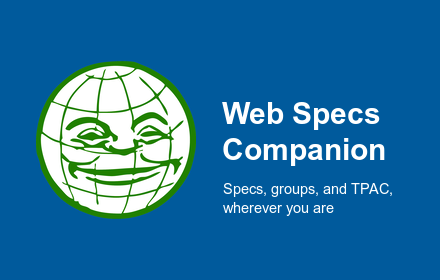
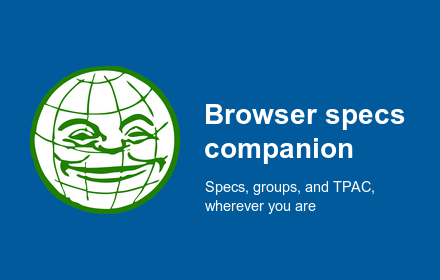
Branding: Rename the extension “Browser specs companion”
The extension now goes by “Browser specs companion” — in its own UI,
on its website and store listings, in its release titles, and as the
Mac app — to match the browser-specs.github.io site, which calls
itself “Browser specs”, and whose globe the extension’s icons already
use. Its short name, for the toolbar, is “Browser specs”.

What identifies the extension rather than naming it is unchanged: its
Firefox ID and Add-ons slug, its Mac bundle ID, the repo and npm names,
the release files’ names, and the data URLs installed copies fetch,
under sideshowbarker.net/web-specs-companion/. So each store gets the
name as an update to the same listing. And the site’s check for the
Chrome Web Store listing takes either name, since the store shows the
old one until it publishes a version with the new one.

Changed region(s): [[0.0591, 0.2, 0.9159, 0.8], [0.4432, 0.6286, 0.8864, 0.7714]]

diff --git a/site/index.html b/site/index.html
@@ -3,9 +3,9 @@
 <head>
   <meta charset="utf-8">
   <meta name="viewport" content="width=device-width, initial-scale=1">
-  <title>Web Specs Companion</title>
+  <title>Browser specs companion</title>
   <meta name="description" content="A browser extension that shows all that’s known about the web spec you’re reading.">
-  <meta property="og:title" content="Web Specs Companion">
+  <meta property="og:title" content="Browser specs companion">
   <meta property="og:description" content="A browser extension that shows all that’s known about the web spec you’re reading.">
   <meta property="og:url" content="https://sideshowbarker.net/web-specs-companion/">
   <meta property="og:image" content="https://sideshowbarker.net/web-specs-companion/screenshots/card-editors-draft.png">
@@ -18,10 +18,10 @@
   <header class="hero">
     <div class="wrap">
       <div>
-        <p class="brand"><img src="icon.png" width="128" height="128" alt=""> Web Specs Companion</p>
+        <p class="brand"><img src="icon.png" width="128" height="128" alt=""> Browser specs companion</p>
         <h1>A browser extension that shows all that’s known about the web spec you’re reading</h1>
         <p class="lede">On a spec from W3C, WHATWG, or another standards body, it shows which browsers implement it, its MDN articles, its Can I Use features, and its test results on wpt.fyi — along with its type, related drafts, repository and issues, and the group responsible for it. A W3C spec also gets its TR versions, and its group’s chairs, team contacts, and charter end date.</p>
-        <p class="disclaimer">Web Specs Companion isn’t formally affiliated with or endorsed by W3C, WHATWG, or any other standards body.</p>
+        <p class="disclaimer">Browser specs companion isn’t formally affiliated with or endorsed by W3C, WHATWG, or any other standards body.</p>
         <p class="cta"><a class="button" id="install-button" href="#install">Install it</a> <span>Free and open source, and it collects nothing about you.</span></p>
       </div>
       <a href="screenshots/card-editors-draft.png"><img class="shot" src="screenshots/card-editors-draft.png" width="1280" height="800" alt="The card for an editor’s draft: its maturity, its links, its group and chairs, and its platform footprint"></a>
@@ -94,7 +94,7 @@
       <div class="wrap">
         <h2 id="install-heading">Install it</h2>
         <p>The latest release is version {{version}}. It needs Chrome or Edge 148 or later, Firefox 128 or later, or Safari 26 or later, on a desktop computer.</p>
-        <p class="mobile-note" id="mobile-note" hidden>Web Specs Companion runs in desktop browsers, so open this page on your computer to install it.</p>
+        <p class="mobile-note" id="mobile-note" hidden>Browser specs companion runs in desktop browsers, so open this page on your computer to install it.</p>
         <div class="browsers">
           <section class="browser" id="chrome" aria-labelledby="chrome-heading">
             <h3 id="chrome-heading">Chrome, Edge, and other Chromium-based browsers</h3>
@@ -103,7 +103,7 @@
             <p>The Chrome Web Store installs it, and keeps it up to date. Edge, Brave, and other Chromium-based browsers install it from there too — Edge first asks you to allow extensions from other stores.</p>
 <!-- endif -->
 <!-- if !cws -->
-            <p>Web Specs Companion is waiting for review in the Chrome Web Store. Until it’s there, load it from the release zip:</p>
+            <p>Browser specs companion is waiting for review in the Chrome Web Store. Until it’s there, load it from the release zip:</p>
             <ol>
               <li><a href="{{zip}}">Download the zip</a>, and unzip it into a folder it can stay in — the browser loads the extension from that folder every time it starts.</li>
               <li>Open <code>chrome://extensions</code> (<code>edge://extensions</code> in Edge, <code>brave://extensions</code> in Brave).</li>
@@ -120,7 +120,7 @@
             <p>Firefox Add-ons installs it, and keeps it up to date.</p>
 <!-- endif -->
 <!-- if !amo -->
-            <p>Web Specs Companion is waiting for review on Firefox Add-ons. Until it’s there, Firefox can run it as a temporary add-on, which Firefox removes when it quits:</p>
+            <p>Browser specs companion is waiting for review on Firefox Add-ons. Until it’s there, Firefox can run it as a temporary add-on, which Firefox removes when it quits:</p>
             <ol>
               <li><a href="{{zip}}">Download the zip</a>.</li>
               <li>Open <code>about:debugging</code>, and click <b>This Firefox</b>.</li>
@@ -131,7 +131,7 @@
           </section>
           <section class="browser" id="safari" aria-labelledby="safari-heading">
             <h3 id="safari-heading">Safari</h3>
-            <p>Safari 26 or later can run Web Specs Companion as a temporary extension, which Safari removes when it quits and after 24 hours — so add it again whenever it’s gone.</p>
+            <p>Safari 26 or later can run Browser specs companion as a temporary extension, which Safari removes when it quits and after 24 hours — so add it again whenever it’s gone.</p>
             <p>Once, choose <b>Safari</b> → <b>Settings…</b>, select <b>Advanced</b>, and turn on <b>Show features for web developers</b>. Then, each time:</p>
             <ol>
               <li><a href="{{zip}}">Download the zip</a>, if you don’t have it already.</li>
@@ -141,7 +141,7 @@
             <p class="muted">Safari has no address-bar keywords or side panels for extensions, so the <kbd>spec</kbd> search and the side panel aren’t there.</p>
           </section>
         </div>
-        <p class="then">Once it’s installed, pin Web Specs Companion to the toolbar from the browser’s extensions menu, and click its button on any spec, W3C repo on GitHub, or w3.org group page.</p>
+        <p class="then">Once it’s installed, pin Browser specs companion to the toolbar from the browser’s extensions menu, and click its button on any spec, W3C repo on GitHub, or w3.org group page.</p>
       </div>
     </section>
   </main>

diff --git a/test/site.test.ts b/test/site.test.ts
@@ -49,6 +49,8 @@ describe('probeStores', () => {
 
   it('counts the Chrome Web Store as listing the extension once its item page has its name', async () => {
     const amo = { status: 401, body: {} };
+    expect((await probeStores(fake(amo, { status: 200, title: 'Browser specs companion - Chrome Web Store' }))).cws).toBe(true);
+    // And by the name it had before, which the store shows until it publishes a version with this one.
     expect((await probeStores(fake(amo, { status: 200, title: 'Web Specs Companion - Chrome Web Store' }))).cws).toBe(true);
     expect((await probeStores(fake(amo, { status: 200, title: 'Chrome Web Store' }))).cws).toBe(false);
     expect((await probeStores(fake(amo, { status: 404 }))).cws).toBe(false);
@@ -126,7 +128,7 @@ describe('the site', () => {
   it('disclaims any formal affiliation, and claims no W3C copyright or trademark', async () => {
     const page = fillTemplate(await read('site/index.html'), values, every[0]);
     expect(page).toContain(
-      '<p class="disclaimer">Web Specs Companion isn\u2019t formally affiliated with or endorsed by W3C, WHATWG, or any ' +
+      '<p class="disclaimer">Browser specs companion isn\u2019t formally affiliated with or endorsed by W3C, WHATWG, or any ' +
         'other standards body.</p>',
     );
     expect(page).not.toMatch(/World Wide Web Consortium|trademark/);

diff --git a/test/branding.test.ts b/test/branding.test.ts
@@ -22,12 +22,12 @@ describe('the rebrand', () => {
     expect(hits).toEqual([]);
   });
 
-  it('names the extension Web Specs Companion, with its own Firefox ID and keyword', () => {
+  it('names the extension Browser specs companion, with its own Firefox ID and keyword', () => {
     const manifest = json('static/manifest.json');
     expect(manifest.browser_specific_settings.gecko.id).toBe('web-specs-companion@sideshowbarker.net');
     expect(manifest.omnibox.keyword).toBe('spec');
     const m = json('static/_locales/en/messages.json');
-    expect([m.extName.message, m.extShortName.message, m.actionTitle.message]).toEqual(['Web Specs Companion', 'Web Specs', 'Web Specs Companion']);
+    expect([m.extName.message, m.extShortName.message, m.actionTitle.message]).toEqual(['Browser specs companion', 'Browser specs', 'Browser specs companion']);
     expect(m.extDescription.message).toBe('A companion for reading web specs and finding the groups and people behind them.');
     expect(m.extDescription.message.length).toBeLessThanOrEqual(132);
   });

diff --git a/scripts/make-icons.ts b/scripts/make-icons.ts
@@ -50,10 +50,10 @@ magick(['png:-', '-filter', 'Lanczos', '-resize', '1024x1024', '-strip', 'PNG32:
 // The tile puts the globe on W3C Blue, with the name and the tagline beside it.
 magick([
   '-size', '440x280', `xc:${BLUE}`,
-  '(', 'png:-', '-filter', 'Lanczos', '-resize', '160x160', ')', '-geometry', '+36+60', '-composite',
-  '-fill', 'white', '-font', BOLD, '-pointsize', '30',
-  '-annotate', '+222+124', 'Web Specs', '-annotate', '+222+160', 'Companion',
+  '(', 'png:-', '-filter', 'Lanczos', '-resize', '150x150', ')', '-geometry', '+30+65', '-composite',
+  '-fill', 'white', '-font', BOLD, '-pointsize', '28',
+  '-annotate', '+204+124', 'Browser specs', '-annotate', '+204+158', 'companion',
   '-font', REGULAR, '-pointsize', '14.5',
-  '-annotate', '+223+194', 'Specs, groups, and TPAC,', '-annotate', '+223+213', 'wherever you are',
+  '-annotate', '+205+192', 'Specs, groups, and TPAC,', '-annotate', '+205+211', 'wherever you are',
   '-strip', 'PNG24:store/promo-tile-440x280.png',
 ], square);

diff --git a/site/privacy.html b/site/privacy.html
@@ -3,15 +3,15 @@
 <head>
   <meta charset="utf-8">
   <meta name="viewport" content="width=device-width, initial-scale=1">
-  <title>Privacy — Web Specs Companion</title>
-  <meta name="description" content="Web Specs Companion doesn’t collect, store, or transmit any personal data.">
+  <title>Privacy — Browser specs companion</title>
+  <meta name="description" content="Browser specs companion doesn’t collect, store, or transmit any personal data.">
   <link rel="icon" href="../favicon.png">
   <link rel="stylesheet" href="../site.css">
 </head>
 <body>
   <header class="hero slim">
     <div class="wrap">
-      <p class="brand"><a href="../"><img src="../icon.png" width="128" height="128" alt=""> Web Specs Companion</a></p>
+      <p class="brand"><a href="../"><img src="../icon.png" width="128" height="128" alt=""> Browser specs companion</a></p>
     </div>
   </header>
 

diff --git a/scripts/site.ts b/scripts/site.ts
@@ -74,7 +74,8 @@ export async function probeStores(fetchUrl: Fetch = fetch): Promise<Stores> {
   if (!cws.ok && cws.status !== 404) throw new Error(`Chrome Web Store answered HTTP ${cws.status} for ${CWS_PAGE}`);
   return {
     amo: amo.ok && ((await amo.json()) as { status?: string }).status === 'public',
-    cws: cws.ok && /<title>Web Specs Companion\b/.test(await cws.text()),
+    // Either name: the store shows the extension's earlier one until it publishes a version with this one.
+    cws: cws.ok && /<title>(?:Browser specs companion|Web Specs Companion)\b/.test(await cws.text()),
   };
 }
 

diff --git a/scripts/mac-app.ts b/scripts/mac-app.ts
@@ -8,7 +8,7 @@ import { readFile, rm, writeFile } from 'node:fs/promises';
 import { parseArgs } from 'node:util';
 import { buildExtension } from './build.ts';
 
-const NAME = 'Web Specs Companion';
+const NAME = 'Browser specs companion';
 const BUNDLE_ID = 'net.sideshowbarker.WebSpecsCompanion';
 const TEAM = 'C3DGD38MM6';
 const CATEGORY = 'public.app-category.developer-tools';

diff --git a/static/popup.html b/static/popup.html
@@ -3,7 +3,7 @@
 <head>
   <meta charset="utf-8">
   <meta name="viewport" content="width=device-width, initial-scale=1">
-  <title>Web Specs Companion</title>
+  <title>Browser specs companion</title>
   <link rel="stylesheet" href="panel.css">
 </head>
 <body>

diff --git a/static/sidepanel.html b/static/sidepanel.html
@@ -3,7 +3,7 @@
 <head>
   <meta charset="utf-8">
   <meta name="viewport" content="width=device-width, initial-scale=1">
-  <title>Web Specs Companion</title>
+  <title>Browser specs companion</title>
   <link rel="stylesheet" href="panel.css">
 </head>
 <body>

diff --git a/README.md b/README.md
@@ -1,4 +1,4 @@
-# Web Specs Companion
+# Browser specs companion
 
 A browser extension for reading web specs. On any spec — from W3C, WHATWG, or another standards body — it shows a detailed “cheatsheet” of all that’s known about it:
 
@@ -16,7 +16,7 @@ A browser extension for reading web specs. On any spec — from W3C, WHATWG, or
 - **On W3C repos and group pages:** for a W3C repo on GitHub, the group behind it and the specs it hosts; for a w3.org group page, the group’s specs.
 - **TPAC 2026:** what’s in session now and next, and when each group meets.
 
-Web Specs Companion isn’t formally affiliated with or endorsed by W3C, WHATWG, or any other standards body.
+Browser specs companion isn’t formally affiliated with or endorsed by W3C, WHATWG, or any other standards body.
 
 ## Screenshots
 
@@ -30,9 +30,9 @@ More: [what Safari lacks of requestIdleCallback()](screenshots/browser-support.p
 
 ## Install
 
-The [Web Specs Companion website](https://sideshowbarker.net/web-specs-companion/) has these steps too, with the steps for your browser first.
+The [Browser specs companion website](https://sideshowbarker.net/web-specs-companion/) has these steps too, with the steps for your browser first.
 
-Chrome and other Chromium-based browsers install Web Specs Companion from the [Chrome Web Store](https://chromewebstore.google.com/detail/hpajpmapkffhaiggemaeajpkehfnapkm). It isn’t on Firefox Add-ons yet, so Firefox installs it from the [latest release](https://github.com/sideshowbarker/web-specs-companion/releases/latest), as Safari does. It needs Chrome or Edge 148 or later, Firefox 128 or later, or Safari 26 or later.
+Chrome and other Chromium-based browsers install Browser specs companion from the [Chrome Web Store](https://chromewebstore.google.com/detail/hpajpmapkffhaiggemaeajpkehfnapkm). It isn’t on Firefox Add-ons yet, so Firefox installs it from the [latest release](https://github.com/sideshowbarker/web-specs-companion/releases/latest), as Safari does. It needs Chrome or Edge 148 or later, Firefox 128 or later, or Safari 26 or later.
 
 ### Chrome, Edge, and other Chromium-based browsers
 
@@ -47,7 +47,7 @@ The `.xpi` is the file Firefox Add-ons signed and serves for that version, so it
 
 ### Safari
 
-Safari 26 or later can run Web Specs Companion as a temporary extension, from the zip in the latest release. Safari removes a temporary extension when it quits, and after 24 hours, so add it again whenever it’s gone. Safari has no address-bar keywords or side panels for extensions, so the `spec` keyword and **Keep this open beside the page** aren’t there.
+Safari 26 or later can run Browser specs companion as a temporary extension, from the zip in the latest release. Safari removes a temporary extension when it quits, and after 24 hours, so add it again whenever it’s gone. Safari has no address-bar keywords or side panels for extensions, so the `spec` keyword and **Keep this open beside the page** aren’t there.
 
 Once, in Safari, choose **Safari** → **Settings…**, select **Advanced**, and turn on **Show features for web developers**. Then, each time:
 

diff --git a/store/app-store-listing.md b/store/app-store-listing.md
@@ -1,4 +1,4 @@
-# App Store listing — Web Specs Companion for Mac
+# App Store listing — Browser specs companion for Mac
 
 The Mac app that npm run mac-app builds and uploads, as the README’s Releasing section says. It differs from the other stores’ listing (listing.md) in what Safari lacks: There’s no side panel and no address-bar keyword, so the description mentions neither.
 
@@ -18,7 +18,7 @@ During TPAC 2026 (Dublin, 26–30 October), it shows what’s in session now and
 App Store Connect lets the promotional text change at any time, while the description changes only with a new version. So TPAC goes here, and comes out once TPAC is over.
 
 **Description (4,000 characters max):**
-Web Specs Companion shows all that’s known about the page you’re on.
+Browser specs companion shows all that’s known about the page you’re on.
 
 On any web spec, it shows what’s known of the spec’s maturity, versions, repository and issue tracker, tests, and the group responsible for it. For a W3C spec, that includes the editor’s draft and TR versions, and the group’s chairs, team contacts, and charter end date.
 
@@ -32,7 +32,7 @@ After you install it, turn it on in Safari’s Settings, under Extensions, and a
 
 Data comes from public sources, including browser-specs, webref, MDN, Can I Use, and wpt.fyi.
 
-Web Specs Companion is a personal project. It isn’t affiliated with or endorsed by W3C.
+Browser specs companion is a personal project. It isn’t affiliated with or endorsed by W3C.
 
 **Keywords (100 characters max):**
 specification,standards,web platform,Web IDL,browser support,developer,reference,interop,tests,spec
@@ -59,7 +59,7 @@ Apple already indexes the words in the app’s name, so the keywords don’t rep
 
 Under General.
 
-**Name (30 characters max):** Web Specs Companion
+**Name (30 characters max):** Browser specs companion
 
 **Subtitle (30 characters max):** For reading web specs
 

diff --git a/store/listing.md b/store/listing.md
@@ -1,12 +1,12 @@
-# Store listing — Web Specs Companion 1.1.0
+# Store listing — Browser specs companion 1.1.0
 
-**Name:** Web Specs Companion
+**Name:** Browser specs companion
 
 **Summary (132 characters max):**
 A companion for reading web specs and finding the groups and people behind them.
 
 **Description:**
-Web Specs Companion shows all that’s known about the page you’re on.
+Browser specs companion shows all that’s known about the page you’re on.
 
 On any web spec, it shows what’s known of the spec’s maturity, versions, repository and issue tracker, tests, and the group responsible for it. For a W3C spec, that includes the editor’s draft and TR versions, and the group’s chairs, team contacts, and charter end date.
 
@@ -22,7 +22,7 @@ During TPAC 2026 (Dublin, 26–30 October), it shows what’s in session now and
 
 Data comes from public sources, including browser-specs, webref, MDN, Can I Use, and wpt.fyi.
 
-Web Specs Companion is a personal project. It isn’t affiliated with or endorsed by W3C.
+Browser specs companion is a personal project. It isn’t affiliated with or endorsed by W3C.
 
 **Screenshots (1280×800):** These ten in screenshots/ go to Firefox Add-ons: card-editors-draft.png, used-by-counts.png, version-radar.png, mdn-articles.png, caniuse-features.png, wpt-results.png, github-repo.png, group-page.png, side-panel.png, tpac-now-and-next.png.
 
